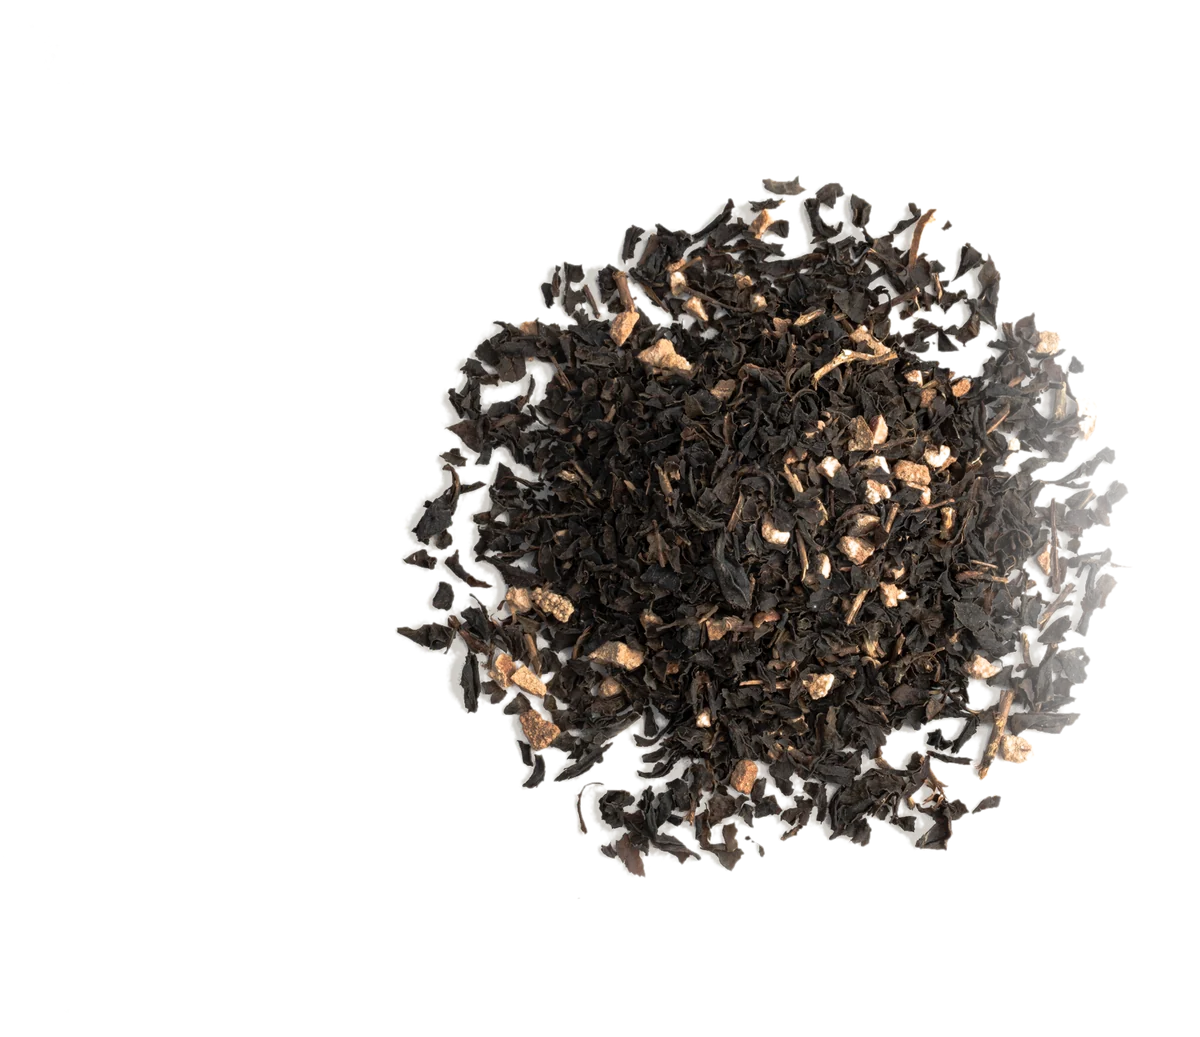
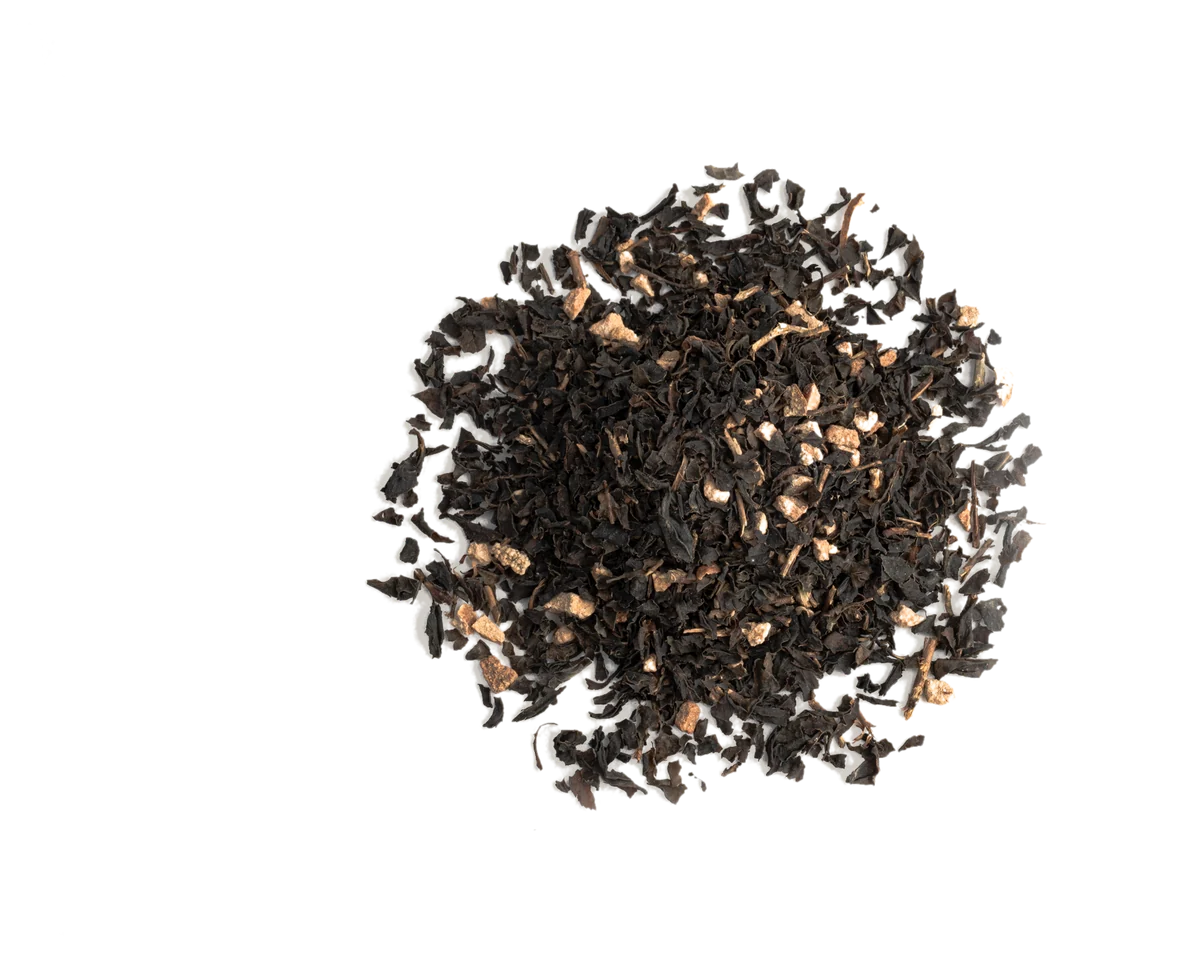
Combine collection into specimen gallery, hero refinements, shelf leaf-first
- Specimens gallery absorbs the collection: four panels with leaf study,
  annotations, data table, and Discover links
- Hero: dictionary line restored, sub blurb removed, hairline frame removed,
  Hadong horizon band added along the bottom
- Shelf: leaf specimens default, piles on hover, pile sizes normalized
- Footer/newsletter spacing tightened; watermark resized
- Prices, formats, provenance/keeping sections on product pages

Changed region(s): [[0.3083, 0.1514, 0.9558, 0.8476]]

diff --git a/koyo-site/index.html b/koyo-site/index.html
@@ -93,19 +93,12 @@
 
     <!-- ═══════════ HERO ═══════════ -->
     <section class="hero" id="hero">
-      <div class="hero-frame" data-hero aria-hidden="true">
-        <span></span><span></span><span></span><span></span>
-      </div>
-
+      <div class="hero-horizon" data-hero aria-hidden="true"></div>
       <img class="hero-mark" src="assets/img/koyo-mark-ink.png" alt="Koyo" data-hero />
       <p class="hero-eyebrow mono" data-hero>단일 원산지 — SINGLE-ORIGIN KOREAN TEA</p>
       <p class="hero-kr" aria-hidden="true">고요</p>
-      <p class="hero-romaja mono" data-hero>KO&nbsp;·&nbsp;YO</p>
+      <p class="hero-def mono" data-hero>ko·yo&nbsp;&nbsp;<em>n.</em>&nbsp;&nbsp;the Korean word for stillness</p>
       <h1 class="hero-title mono" data-hero>STILLNESS&nbsp;&nbsp;GUIDES&nbsp;&nbsp;PURPOSE</h1>
-      <p class="hero-sub" data-hero>
-        The Korean word for stillness — and hand-picked teas
-        from the mountain mists of Hadong, South Korea.
-      </p>
       <div class="hero-cta" data-hero>
         <a class="btn btn-solid" href="#specimen" data-cursor data-magnetic>Explore the collection</a>
         <a class="btn btn-ghost" href="#ethos" data-cursor data-magnetic>Our story</a>
@@ -282,8 +275,8 @@
       <div class="shelf-grid">
         <a class="shelf-card" href="tea/sejak.html" data-cursor data-reveal>
           <div class="shelf-media">
-            <img class="shelf-pack" src="assets/img/pilecut-sejak.webp" alt="Koyo Sejak green tea pouch" loading="lazy" />
-            <img class="shelf-loose" src="assets/img/leafcut-sejak.webp" alt="Sejak loose leaves" loading="lazy" />
+            <img class="shelf-pack" src="assets/img/leafcut-sejak.webp" alt="Koyo Sejak green tea pouch" loading="lazy" />
+            <img class="shelf-loose" src="assets/img/pilecut-sejak.webp" alt="Sejak loose leaves" loading="lazy" />
           </div>
           <h3 class="shelf-name">Sejak <span>세작</span></h3>
           <p class="shelf-meta mono">GREEN TEA · HADONG</p>
@@ -291,8 +284,8 @@
 
         <a class="shelf-card" href="tea/artemisia.html" data-cursor data-reveal>
           <div class="shelf-media">
-            <img class="shelf-pack" src="assets/img/pilecut-artemisia.webp" alt="Koyo Artemisia tea pouch" loading="lazy" />
-            <img class="shelf-loose" src="assets/img/leafcut-artemisia.webp" alt="Artemisia loose leaves" loading="lazy" />
+            <img class="shelf-pack" src="assets/img/leafcut-artemisia.webp" alt="Koyo Artemisia tea pouch" loading="lazy" />
+            <img class="shelf-loose" src="assets/img/pilecut-artemisia.webp" alt="Artemisia loose leaves" loading="lazy" />
           </div>
           <h3 class="shelf-name">Artemisia <span>쑥차</span></h3>
           <p class="shelf-meta mono">TISANE · JIRISAN</p>
@@ -300,8 +293,8 @@
 
         <a class="shelf-card" href="tea/persimmon.html" data-cursor data-reveal>
           <div class="shelf-media">
-            <img class="shelf-pack" src="assets/img/pilecut-persimmon.webp" alt="Koyo Persimmon Leaf tea pouch" loading="lazy" />
-            <img class="shelf-loose" src="assets/img/leafcut-persimmon.webp" alt="Persimmon leaf loose tea" loading="lazy" />
+            <img class="shelf-pack" src="assets/img/leafcut-persimmon.webp" alt="Koyo Persimmon Leaf tea pouch" loading="lazy" />
+            <img class="shelf-loose" src="assets/img/pilecut-persimmon.webp" alt="Persimmon leaf loose tea" loading="lazy" />
           </div>
           <h3 class="shelf-name">Persimmon Leaf <span>감잎차</span></h3>
           <p class="shelf-meta mono">TISANE · HADONG</p>
@@ -309,8 +302,8 @@
 
         <a class="shelf-card" href="tea/hwangto.html" data-cursor data-reveal>
           <div class="shelf-media">
-            <img class="shelf-pack" src="assets/img/pilecut-hwangto.webp" alt="Koyo Hwangto tea pouch" loading="lazy" />
-            <img class="shelf-loose" src="assets/img/leafcut-hwangto.webp" alt="Hwangto loose blend" loading="lazy" />
+            <img class="shelf-pack" src="assets/img/leafcut-hwangto.webp" alt="Koyo Hwangto tea pouch" loading="lazy" />
+            <img class="shelf-loose" src="assets/img/pilecut-hwangto.webp" alt="Hwangto loose blend" loading="lazy" />
           </div>
           <h3 class="shelf-name">Hwangto <span>황토</span></h3>
           <p class="shelf-meta mono">RED TEA &amp; QUINCE · HADONG</p>

diff --git a/koyo-site/css/style.css b/koyo-site/css/style.css
@@ -376,12 +376,29 @@ main { position: relative; z-index: 1; }
   margin-bottom: clamp(1.4rem, 3.2vh, 2.4rem);
   opacity: 0.92;
 }
-.hero-romaja {
-  font-size: 0.62rem;
-  letter-spacing: 0.66em;
-  margin: -0.7rem 0 clamp(1.3rem, 3vh, 2.2rem) 0.66em;
-  color: var(--ink-faint);
+.hero-def {
+  font-size: 0.66rem;
+  margin: -0.4rem 0 clamp(1.7rem, 4vh, 2.8rem);
+  color: var(--ink-soft);
 }
+.hero-def em { font-style: italic; letter-spacing: 0.1em; }
+
+.hero-horizon {
+  position: absolute;
+  left: 0; right: 0; bottom: 0;
+  height: min(34vh, 300px);
+  z-index: 0;
+  background: url("../assets/img/hero-field.jpg") center 30% / cover no-repeat;
+  opacity: 0.45;
+  -webkit-mask-image: linear-gradient(180deg, transparent 0%, rgba(0,0,0,0.75) 60%, #000 100%);
+  mask-image: linear-gradient(180deg, transparent 0%, rgba(0,0,0,0.75) 60%, #000 100%);
+  pointer-events: none;
+}
+.hero-mark, .hero-eyebrow, .hero-kr, .hero-def, .hero-title, .hero-cta {
+  position: relative;
+  z-index: 1;
+}
+.hero-side, .hero-scroll, .hero-seal { z-index: 1; }
 .hero-title {
   font-weight: 300;
   font-size: clamp(0.95rem, 1.8vw, 1.5rem);
@@ -394,26 +411,11 @@ main { position: relative; z-index: 1; }
   .hero-title { font-size: 0.78rem; letter-spacing: 0.28em; margin-left: 0.28em; }
 }
 
-.hero-frame {
-  position: absolute;
-  inset: clamp(5rem, 7vh, 5.8rem);
-  border: 1px solid rgba(30, 26, 22, 0.1);
-  pointer-events: none;
-}
-.hero-frame span {
-  position: absolute;
-  width: 13px;
-  height: 13px;
-}
-.hero-frame span:nth-child(1) { top: -1px; left: -1px; border-top: 1px solid var(--ink); border-left: 1px solid var(--ink); }
-.hero-frame span:nth-child(2) { top: -1px; right: -1px; border-top: 1px solid var(--ink); border-right: 1px solid var(--ink); }
-.hero-frame span:nth-child(3) { bottom: -1px; left: -1px; border-bottom: 1px solid var(--ink); border-left: 1px solid var(--ink); }
-.hero-frame span:nth-child(4) { bottom: -1px; right: -1px; border-bottom: 1px solid var(--ink); border-right: 1px solid var(--ink); }
 
 .hero-seal {
   position: absolute;
-  right: calc(clamp(5rem, 7vh, 5.8rem) + 1.6rem);
-  bottom: calc(clamp(5rem, 7vh, 5.8rem) + 1.4rem);
+  right: clamp(3rem, 6vw, 5.2rem);
+  bottom: clamp(2.8rem, 6vh, 4.6rem);
   width: 108px;
   height: 108px;
   display: grid;
@@ -637,7 +639,7 @@ main { position: relative; z-index: 1; }
 }
 .hero-sub em { font-style: italic; color: var(--ink); }
 .hero-cta {
-  margin-top: clamp(2.2rem, 5vh, 3.6rem);
+  margin-top: clamp(2rem, 4.5vh, 3.2rem);
   display: flex;
   gap: 1rem;
   flex-wrap: wrap;
@@ -646,7 +648,7 @@ main { position: relative; z-index: 1; }
 
 .hero-side {
   position: absolute;
-  right: calc(clamp(5rem, 7vh, 5.8rem) + 1.3rem);
+  right: calc(var(--pad-x) / 2);
   top: 50%;
   transform: translateY(-50%) rotate(180deg);
   writing-mode: vertical-rl;
@@ -656,7 +658,7 @@ main { position: relative; z-index: 1; }
 
 .hero-scroll {
   position: absolute;
-  bottom: calc(clamp(5rem, 7vh, 5.8rem) + 1.2rem);
+  bottom: 2.4rem;
   left: 50%;
   transform: translateX(-50%);
   display: flex;
@@ -1143,7 +1145,7 @@ main { position: relative; z-index: 1; }
 
 /* ── Newsletter ─────────────────────────────────────────────── */
 
-.letter { padding: 0 var(--pad-x) var(--sec-y); }
+.letter { padding: 0 var(--pad-x) clamp(3.5rem, 8vh, 5.5rem); }
 .letter-inner {
   max-width: 56rem;
   margin: 0 auto;
@@ -1200,7 +1202,7 @@ main { position: relative; z-index: 1; }
   background: #171310;
   color: #d9d2c4;
   overflow: hidden;
-  padding: clamp(4.5rem, 10vh, 7rem) var(--pad-x) 2rem;
+  padding: clamp(3.5rem, 8vh, 5.5rem) var(--pad-x) 1.8rem;
 }
 .footer a { transition: color 0.3s; }
 .footer a:hover { color: #ffffff; }
@@ -1232,15 +1234,15 @@ main { position: relative; z-index: 1; }
 .footer-kr {
   font-family: var(--serif-kr);
   font-weight: 200;
-  font-size: clamp(11rem, 30vw, 26rem);
-  line-height: 0.8;
+  font-size: clamp(6rem, 13vw, 10.5rem);
+  line-height: 0.85;
   text-align: center;
   color: transparent;
   -webkit-text-stroke: 1px rgba(217, 210, 196, 0.10);
   user-select: none;
   pointer-events: none;
-  margin-top: clamp(2rem, 6vh, 4rem);
-  transform: translateY(18%);
+  margin-top: 0.8rem;
+  margin-bottom: 1.4rem;
 }
 .footer-bottom {
   position: relative;

diff --git a/koyo-site/js/common.js b/koyo-site/js/common.js
@@ -248,8 +248,8 @@ export function initSite() {
   /* ── Footer watermark drift ─────────────────────────────────── */
 
   if (!reduced && document.querySelector(".footer-kr")) {
-    gsap.fromTo(".footer-kr", { yPercent: 46 }, {
-      yPercent: 12,
+    gsap.fromTo(".footer-kr", { yPercent: 34 }, {
+      yPercent: 0,
       ease: "none",
       scrollTrigger: { trigger: ".footer", start: "top bottom", end: "bottom bottom", scrub: 0.5 },
     });
